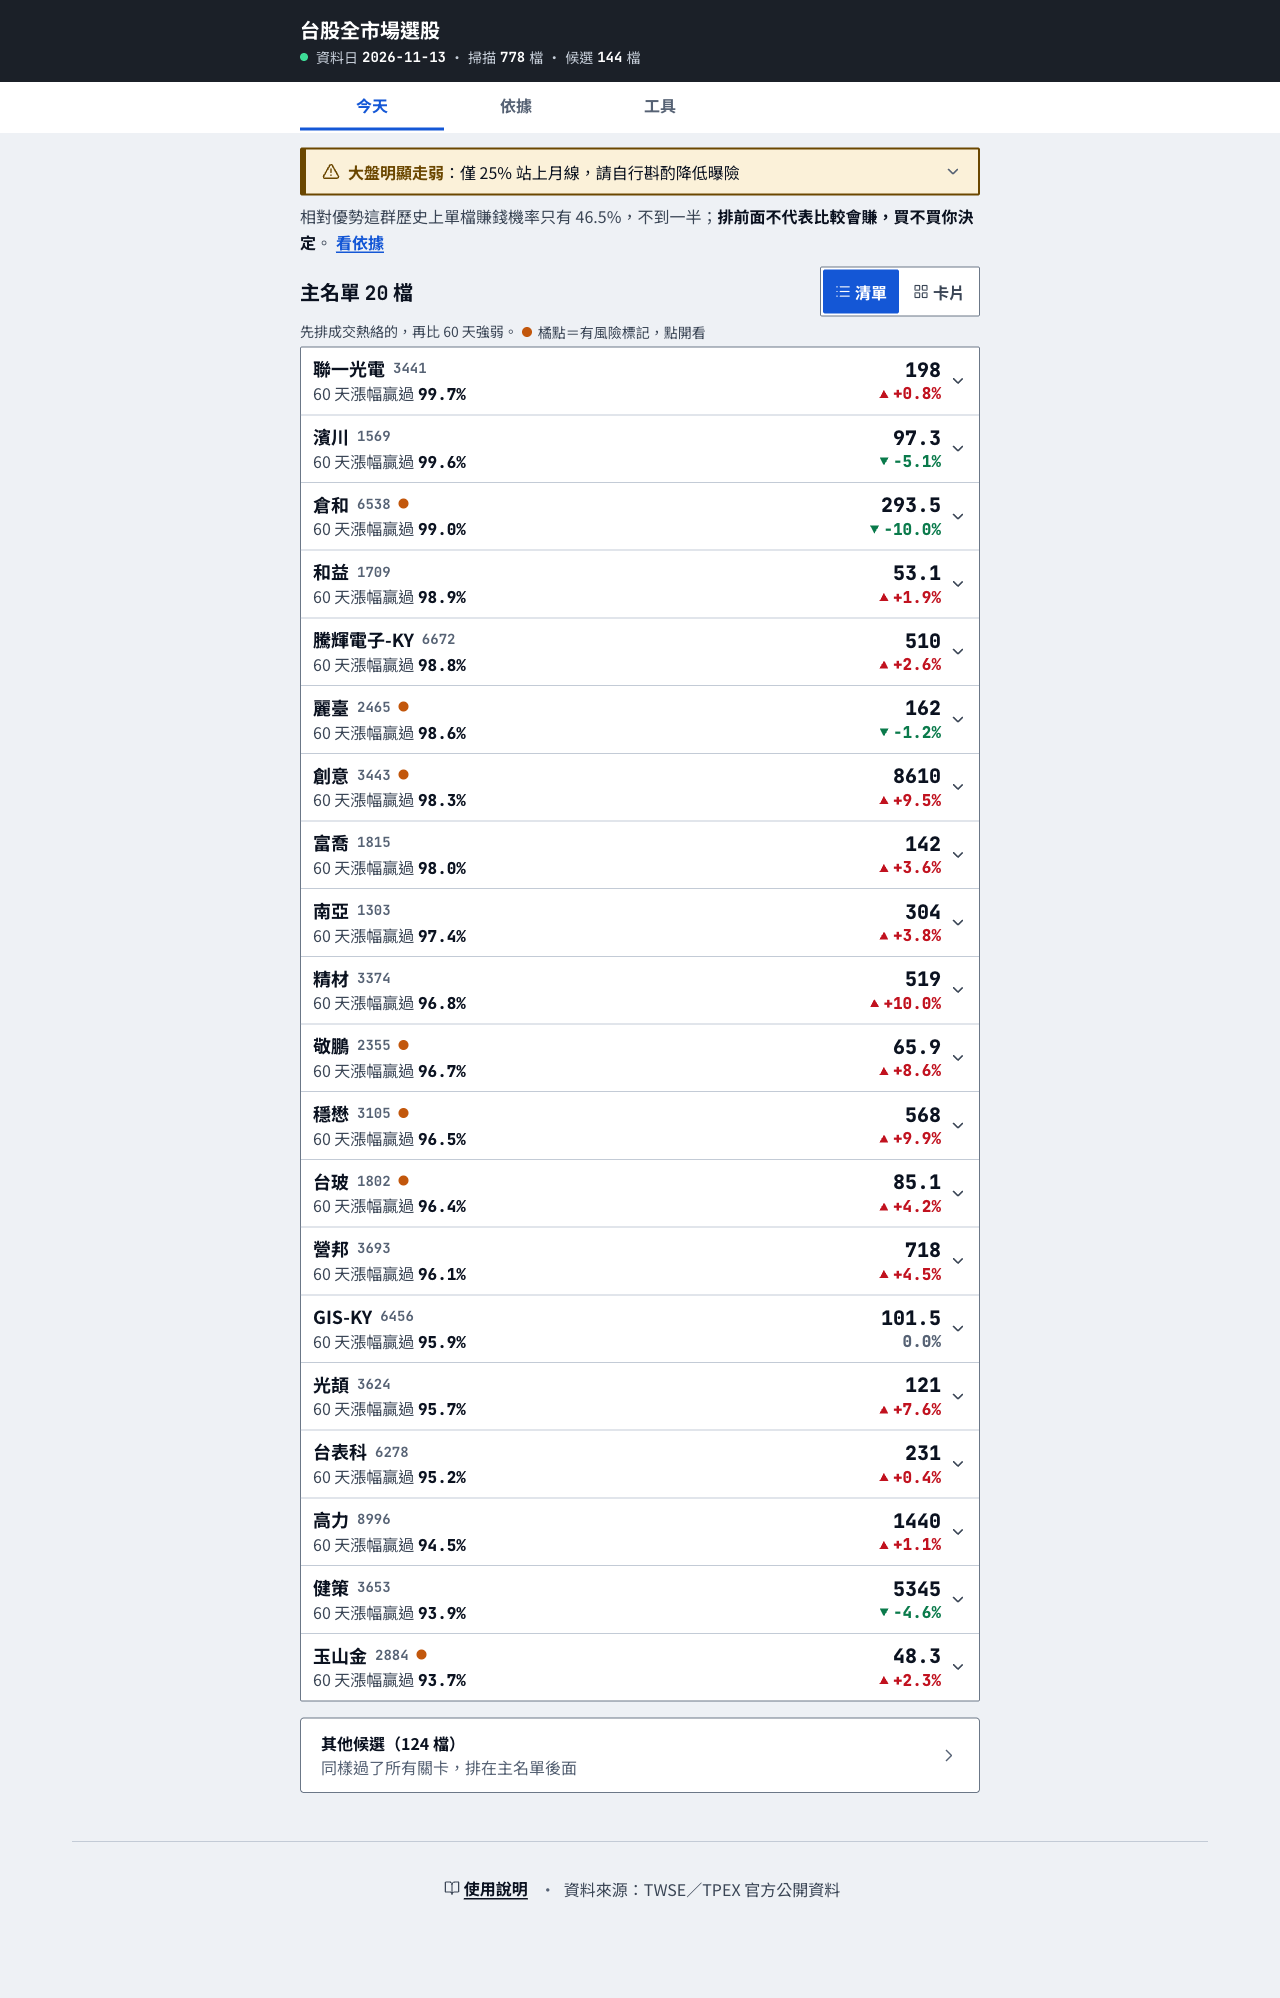
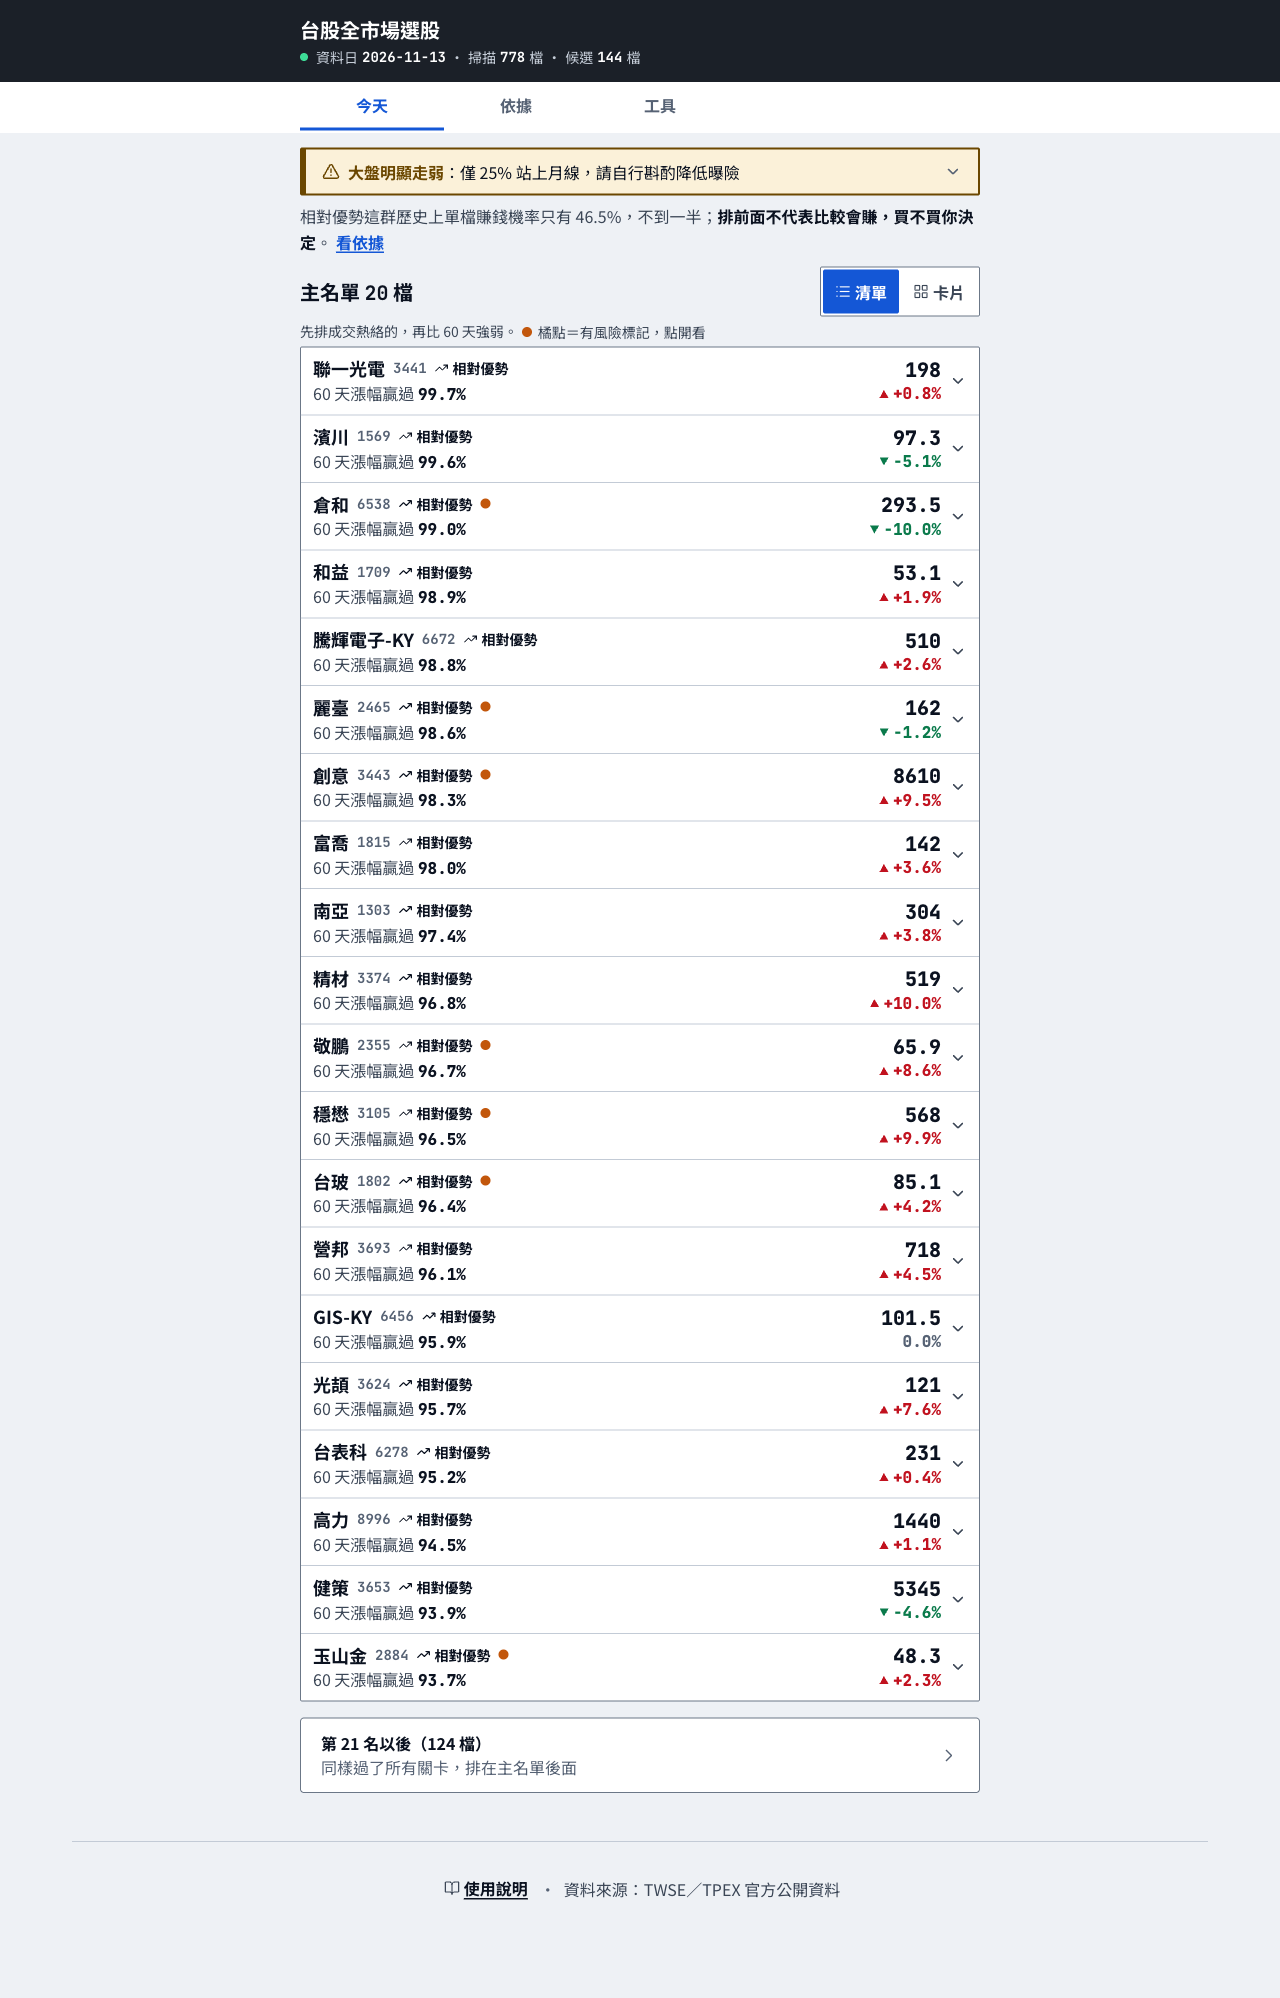
fix: 120 日強弱缺資料判成 rs_unavailable、清單列加相對優勢小標、收合區改名「第 N 名以後」
- rs_unavailable 改成「沒有任何一檔同時有 rs_pct_60 與 rs_pct_120」，暖身期沿用退回全體（與改動前同）；歷史重播列補 rs_pct_120
- 清單檢視每列替相對優勢加無底粗體小標（同卡片樣式），寬度不夠時換行、不截名稱
- 收合區標題改「第 {main_n+1} 名以後（N 檔）」，避免與證據表的「其他候選」撞名；依據／說明文案同步
- 重拍 edge-sort 截圖

diff --git a/src/components/HelpGuide.jsx b/src/components/HelpGuide.jsx
@@ -2,7 +2,7 @@ import { ArrowLeft, BookOpen, AlertTriangle } from 'lucide-react'
 import ExitDefense from './ExitDefense'
 import { okNum, signalSummary } from '../lib/signalSummary'
 import { edgeSentence, edgeWinRateText, staleText, biasNote } from '../lib/tierVerdict'
-import { ENGINE_KEYS, MIN_VOL_LOTS, engineWeightsAllZero } from '../lib/cardFacts'
+import { ENGINE_KEYS, MIN_VOL_LOTS, MAIN_LIST_N, engineWeightsAllZero } from '../lib/cardFacts'
 
 // 使用說明書（Andy 2026-07-25 要求，選「做進網站」＋「寫給自己看（術語附白話）」）。
 //
@@ -190,7 +190,7 @@ export default function HelpGuide({ onBack, tierStats, exitSummary, weights, com
             <b>→ 再剔除 20 日均量不到 {MIN_VOL_LOTS} 張、營收年減的，剩下能通過門檻的檔數</b>（抓不到營收的不剔除，卡片上標「營收資料缺」）（畫面上「今日候選」顯示的就是這個數，每天隨市況變動，不是固定範圍）
           </li>
           <li>
-            <b>→ 全部列出來，先排「相對優勢」（成交金額排今天候選前 1/3），再依「近 60 天漲幅在全市場的排名」由高到低排</b>：前 20 檔是主名單、其餘收在「其他候選」（精確說是先比訊號權重分、同分先排相對優勢、再比這個排名；候選不到 10 檔時不分相對優勢，只看排名；先排相對優勢是 2026-11-16 起還在觀察的排法；{wZero === true ? '目前訊號權重全是 0，所以實際只剩這個排名' : wZero === false ? '目前有訊號帶權重，所以分數高的會排前面' : '目前權重是否全 0 要看「各訊號回測戰績」表'}）。
+            <b>→ 全部列出來，先排「相對優勢」（成交金額排今天候選前 1/3），再依「近 60 天漲幅在全市場的排名」由高到低排</b>：前 {MAIN_LIST_N} 檔是主名單、其餘收在「第 {MAIN_LIST_N + 1} 名以後」（精確說是先比訊號權重分、同分先排相對優勢、再比這個排名；候選不到 10 檔時不分相對優勢，只看排名；先排相對優勢是 2026-11-16 起還在觀察的排法；{wZero === true ? '目前訊號權重全是 0，所以實際只剩這個排名' : wZero === false ? '目前有訊號帶權重，所以分數高的會排前面' : '目前權重是否全 0 要看「各訊號回測戰績」表'}）。
             <span className="help-why">為什麼不是用技術訊號（糾結轉強、縮口帶量突破等）排序：它們扣掉交易成本後，歷史上平均都沒有穩定贏過大盤，所以目前沒有拿它們加分，實際上就是按相對強弱排。哪些訊號有沒有加分，以「各訊號回測戰績」那張表為準，每週會重算。<b>注意：技術訊號在這裡是上面第 3 步的入場條件（沒亮就刷掉），不是排序依據；「排前面」只決定順序</b>——候選不會被砍成固定檔數，通過所有關卡的都照樣列出；卡片的理由若寫「僅符合門檻，按相對強弱排序」，就是這個意思；如果那天過門檻的不到 20 檔，就只列真的過關的那幾檔（名單上方會寫「今天強勢股太少，只有 N 檔過關」）；只有強弱資料整個算不出來時，系統才會取消第一關、改看所有有技術訊號的股票，這時理由會直接寫「今天沒套用強勢雙確認門檻…未經強勢篩選」（前面帶一個警示圖示）——看到這句就知道這檔連第一關都沒過。</span>
           </li>
           <li>

diff --git a/src/components/Opportunities.jsx b/src/components/Opportunities.jsx
@@ -10,7 +10,8 @@ import { commonReasons, sortRuleText, splitMain, smallPoolText } from '../lib/ca
 // 原本同一個元件裡的「這些數字怎麼來的」、成績單搬到 BasisTab；權重表、持有口徑與停損代價搬到工具分頁。
 //
 // 2026-11-16 改（Andy 核准「小改＋觀察」）：不再按 tier 分「相對優勢／其他候選」兩組，
-// 改成照 JSON 原始順序切兩段——前 main_n 檔是主名單、其餘收進預設收合的「其他候選」。
+// 改成照 JSON 原始順序切兩段——前 main_n 檔是主名單、其餘收進預設收合的「第 main_n+1 名以後」
+// （不叫「其他候選」：那個詞在「依據」分頁的證據表專指沒排進相對優勢的候選，避免撞名）。
 // 後端排序已經是「分數 → 相對優勢先 → 60 日強弱」，相對優勢自然排在前面，前端不重新排序。
 // 原本每組各有一層「再看 N 檔」（preview_n）的分頁，跟主名單／其他候選重疊，拿掉，只留一層收合。
 // 卡片與清單兩種檢視吃同一個陣列、同一個切片。
@@ -95,6 +96,7 @@ export default function Opportunities({ opp, stocks, onPick, tierStats, onGoBasi
   )
 
   const { main, other } = splitMain(opp.picks, opp.main_n)
+  const otherFrom = main.length + 1   // 收合區從第幾名開始（＝main_n+1；不寫死 21）
   const smallPool = smallPoolText(opp.gate, opp.picks.length)
   const gNote = gateNote(opp.gate, tierStats)
   const stale = staleText(tierStats)
@@ -147,7 +149,7 @@ export default function Opportunities({ opp, stocks, onPick, tierStats, onGoBasi
       {other.length > 0 && (
         <div className="opp-other">
           <button className="opp-fold" onClick={() => setShowOther(v => !v)} aria-expanded={showOther}>
-            <span>其他候選（{other.length} 檔）<small>同樣過了所有關卡，排在主名單後面</small></span>
+            <span>第 {otherFrom} 名以後（{other.length} 檔）<small>同樣過了所有關卡，排在主名單後面</small></span>
             {showOther ? <ChevronDown size={20} strokeWidth={2} /> : <ChevronRight size={20} strokeWidth={2} />}
           </button>
           {showOther && (

diff --git a/src/components/BasisTab.jsx b/src/components/BasisTab.jsx
@@ -212,7 +212,7 @@ function HowMade({ opp, tierStats }) {
         ))}
       </ol>
       <p className="bt-lead"><ListChecks size={16} strokeWidth={1.75} aria-hidden="true" /><span><b>排順序</b>：{sortRule}；排前面沒有證據比較會賺。</span></p>
-      <p className="bt-lead"><TrendingUp size={16} strokeWidth={1.75} aria-hidden="true" /><span><b>相對優勢</b>：{EDGE_TEXT}的排在前面（還在觀察的排法，不是定論），意思是成交熱絡，不是漲得比較強；沒排進前 1/3 的沒有分類稱號（「證據」表裡叫「其他候選」）。前 {opp?.main_n ?? MAIN_LIST_N} 檔是主名單，其餘收在「其他候選」。</span></p>
+      <p className="bt-lead"><TrendingUp size={16} strokeWidth={1.75} aria-hidden="true" /><span><b>相對優勢</b>：{EDGE_TEXT}的排在前面（還在觀察的排法，不是定論），意思是成交熱絡，不是漲得比較強；沒排進前 1/3 的叫「其他候選」，沒有分類稱號。前 {opp?.main_n ?? MAIN_LIST_N} 檔是主名單，其餘收在「第 {(opp?.main_n ?? MAIN_LIST_N) + 1} 名以後」。</span></p>
       <p className="bt-lead"><AlertTriangle size={16} strokeWidth={1.75} aria-hidden="true" /><span><b>要小心與橘點</b>：卡片上「要小心」只列既有標記（乖離大、乖離排前段、法說會將近）和近 20 天輸大盤幾個百分點，不另外判斷好壞。清單上的橘點只看硬狀況：系統標的風險（乖離大、營收資料缺）或法說會將近。</span></p>
       {common && (
         <p className="bt-lead"><Info size={16} strokeWidth={1.75} aria-hidden="true" />

diff --git a/src/components/PassCard.jsx b/src/components/PassCard.jsx
@@ -102,14 +102,16 @@ export function CandidateCard({ p, full, gate, first, onOpen, showReasons }) {
 export function CandidateRow({ p, full, gate, first, open, onToggle, onOpen, showReasons }) {
   const beat = beatText(p.rs_pct_60)
   const dot = hasRiskDot(p)
+  const edge = edgeLine(p)     // 2026-11-16：清單不再按分類分組，相對優勢改在列上標（樣式同卡片那行：無底粗體）
   const detailId = `opp-row-${p.id}`
   return (
     <li className={`opp-row${open ? ' open' : ''}`} data-pick-row {...(first ? { 'data-first-pick': '' } : {})}>
       <button className="opp-row-btn" onClick={onToggle} aria-expanded={open} aria-controls={detailId}>
         <span className="opp-row-main">
-          <span className="opp-row-top">
+          <span className={`opp-row-top${edge ? ' has-edge' : ''}`}>
             <span className="opp-row-name" data-pick-name>{p.name}</span>
             <span className="mono opp-row-code" data-pick-code>{p.id}</span>
+            {edge && <span className="opp-row-edge" data-edge-tag title={edge}><TrendingUp size={14} strokeWidth={2} aria-hidden="true" />相對優勢</span>}
             {dot && <><span className="opp-dot" aria-hidden="true" data-risk-dot /><span className="sr-only">（有風險標記）</span></>}
           </span>
           {beat != null && <span className="opp-row-sub">60 天漲幅贏過 <b className="mono">{beat}</b></span>}

diff --git a/src/App.css b/src/App.css
@@ -1447,6 +1447,9 @@ h1, h2, h3 { font-family: var(--font-cjk); color: var(--ink); }
 .opp-row-top { display: flex; align-items: center; gap: 8px; min-width: 0; max-width: 100%; }
 .opp-row-top .opp-row-name { flex: 0 1 auto; min-width: 0; }
 .opp-row-top .opp-row-code { flex: none; font-size: .875rem; line-height: 1.5; color: var(--ink-muted); font-weight: 700; }
+/* 有相對優勢小標的列：寬度不夠時讓小標換到下一行，不擠掉名稱（名稱長的股票不被截成「…」） */
+.opp-row-top.has-edge { flex-wrap: wrap; row-gap: 0; }
+.opp-row-top .opp-row-edge { flex: none; display: inline-flex; align-items: center; gap: 4px; font-size: .875rem; line-height: 1.5; font-weight: 800; color: var(--ink); white-space: nowrap; }
 .opp-row-sub { font-size: 1rem; line-height: 1.5; color: var(--ink-body); white-space: nowrap; }
 .opp-row-sub b { color: var(--ink); font-weight: 800; }
 .opp-row-detail { padding: 12px 16px 20px; }

diff --git a/pipeline/tests/test_opportunities.py b/pipeline/tests/test_opportunities.py
@@ -144,7 +144,7 @@ def test_preview_n是畫面預設筆數不是建議買幾檔():
 def _tier_stock(sid, turnover_close, bias20):
     return {"id": sid, "name": f"股{sid}", "close": turnover_close, "ma20": 95.0,
             "avg_vol_lots": 1000, "bias20_pct": bias20, "recent_high20": None,
-            "rs_pct_60": 0.5, "earnings_date": None, "signal_ma": True,
+            "rs_pct_60": 0.5, "rs_pct_120": 0.5, "earnings_date": None, "signal_ma": True,
             "rs_confirmed_60_120": True}   # 2026-11-16 起弱勢日只列過關的，夾具要明講過了強勢關
 
 
@@ -341,7 +341,7 @@ def test_run_passes_force_recompute_to_ensure_weights(monkeypatch):
 # ── 入場門檻的降級可見性（2026-07-25 Codex 複查後補）──────────────────────
 def _stock(sid, **kw):
     base = {"id": sid, "name": f"N{sid}", "avg_vol_lots": 5000, "close": 100, "ma20": 95,
-            "sn_squeeze_breakout": True, "rs_confirmed_60_120": True, "rs_pct_60": 0.9}
+            "sn_squeeze_breakout": True, "rs_confirmed_60_120": True, "rs_pct_60": 0.9, "rs_pct_120": 0.9}
     base.update(kw)
     return base
 
@@ -573,3 +573,21 @@ def test_影子檔同日重跑覆寫不重複(monkeypatch, tmp_path):
     assert [e["date"] for e in data["entries"]] == ["2026-11-16", "2026-11-17"]
     assert len(data["entries"][0]["rows"]) == 2, "同日重跑要覆寫成最新那次"
     assert "note" in data and "60" in data["note"]
+
+
+def test_只有60日強弱沒有120日時判成資料不可用_退回全體與舊版相同():
+    """120 日強弱算不出來（暖身期）＝強勢雙確認根本判不了，不是「今天沒有股票過關」。
+    pool 行為與 2026-11-16 以前相同：退回全部有訊號的股票。"""
+    stocks = [_stock(f"W{i:02d}", rs_confirmed_60_120=False, rs_pct_60=0.5 + i / 100, rs_pct_120=None)
+              for i in range(30)]
+    o = opp.build_opportunities(stocks, {"signals": {}}, {}, "2025-03-03")
+    assert o["gate"]["applied"] is False and o["gate"]["reason"] == "rs_unavailable"
+    assert o["gate"]["pool"] == 0 and len(o["picks"]) == 30, "退回全體（舊版行為）"
+    assert all("強弱資料算不出來" in " ".join(p["reasons"]) for p in o["picks"])
+
+
+def test_有一檔兩個強弱都有就算資料可用():
+    stocks = [_stock("V1", rs_confirmed_60_120=False, rs_pct_60=0.5, rs_pct_120=0.5),
+              _stock("V2", rs_confirmed_60_120=False, rs_pct_60=0.5, rs_pct_120=None)]
+    o = opp.build_opportunities(stocks, {"signals": {}}, {}, "2026-11-16")
+    assert o["gate"]["reason"] == "applied_small_pool" and o["picks"] == []

diff --git a/pipeline/opportunities.py b/pipeline/opportunities.py
@@ -177,8 +177,11 @@ def build_opportunities(results, weights, revenue, data_date):
     # gate.applied=True、reason="applied_small_pool"，前端／快報講「今天強勢股太少，只有 N 檔過關」。
     # 例外：強弱資料整個算不出來（rs_unavailable）時維持舊行為退回全體——那是資料故障，不是弱勢日，
     # 照舊名單會整個空掉、把故障講成市場結論。
+    # 「算不出來」＝沒有任何一檔同時有 rs_pct_60 與 rs_pct_120（強勢雙確認要兩個都有才判得了）。
+    # 原本只看 rs_pct_60，120 日資料缺（例如長歷史不足 121 天的暖身期）會被誤判成候選不足
+    # （2026-11-16 盤點報告 A 表指出）。
     # 舊值 "pool_too_small" 只會出現在 2026-11-16 以前的 picks_history／舊 opportunities.json。
-    rs_ok = any(r.get("rs_pct_60") is not None for r in results)
+    rs_ok = any(r.get("rs_pct_60") is not None and r.get("rs_pct_120") is not None for r in results)
     gate_on = len(gated) >= GATE_MIN_POOL or rs_ok
     pool = gated if gate_on else results
     # 說清楚「為什麼沒套門檻」——RS 資料掛掉時門檻會靜默失效，必須能分辨故障與候選不足

diff --git a/pipeline/backtest_signals.py b/pipeline/backtest_signals.py
@@ -395,6 +395,9 @@ def _pool_row(stock, ind, x, ret):
         "ma20": ind.get("ma20"), "recent_high20": ind.get("recent_high20"),
         "bias20_pct": ind.get("bias20_pct"), "rs20": ind.get("rs20"),
         "rs_pct_60": (x.get("rs_pct_60") if x else None),
+        # 2026-11-16 加：build_opportunities 用「60／120 日強弱是否都算得出來」判斷資料可不可用
+        # （rs_unavailable），重播時少了這欄會每天都被當成資料故障。
+        "rs_pct_120": (x.get("rs_pct_120") if x else None),
         "rs_confirmed_60_120": xf["rs_confirmed_60_120"],
         "_ret": ret,
     })

diff --git a/pipeline/tests/test_pool_tier_stats.py b/pipeline/tests/test_pool_tier_stats.py
@@ -20,7 +20,7 @@ def _row(sid, turnover_rank, ret, *, vol=800, bias=1.0, gate=True, engine=True,
     close = 100.0
     return {"id": sid, "name": sid, "signal_ma": engine, "avg_vol_lots": vol * turnover_rank,
             "close": close, "ma20": 95.0, "recent_high20": high20 if high20 is not None else 110.0 + turnover_rank,
-            "bias20_pct": bias, "rs20": None, "rs_pct_60": rs,
+            "bias20_pct": bias, "rs20": None, "rs_pct_60": rs, "rs_pct_120": rs,
             "rs_confirmed_60_120": gate, "_ret": ret}
 
 
